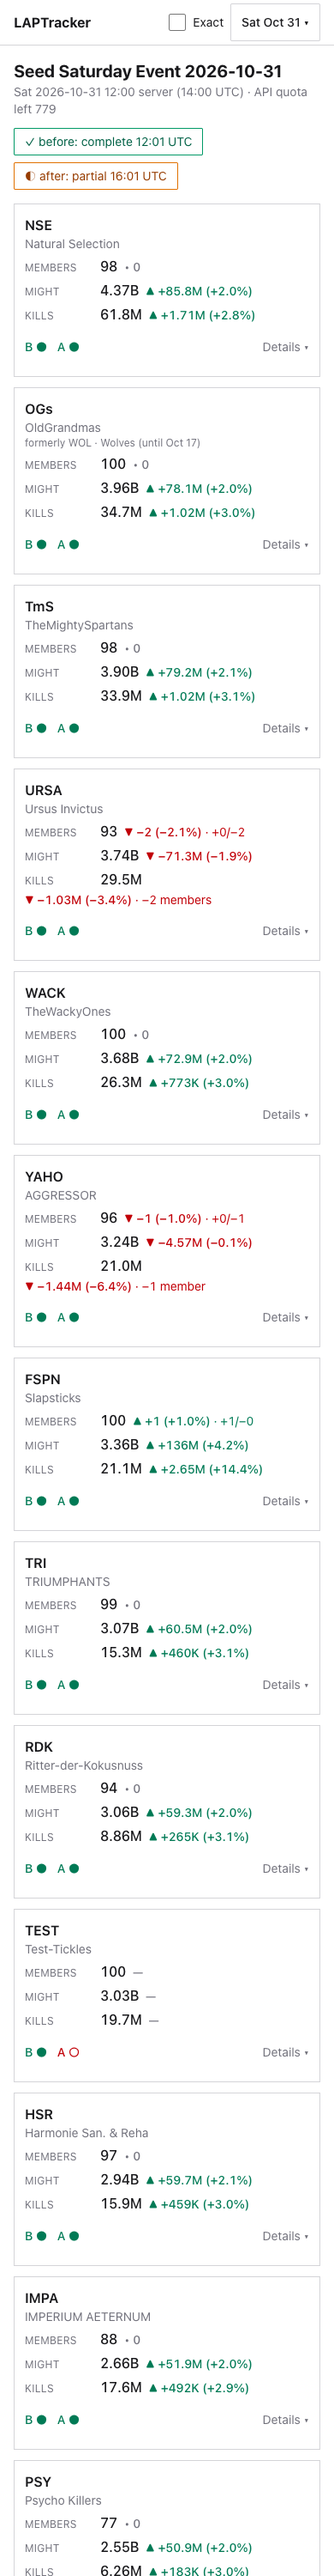
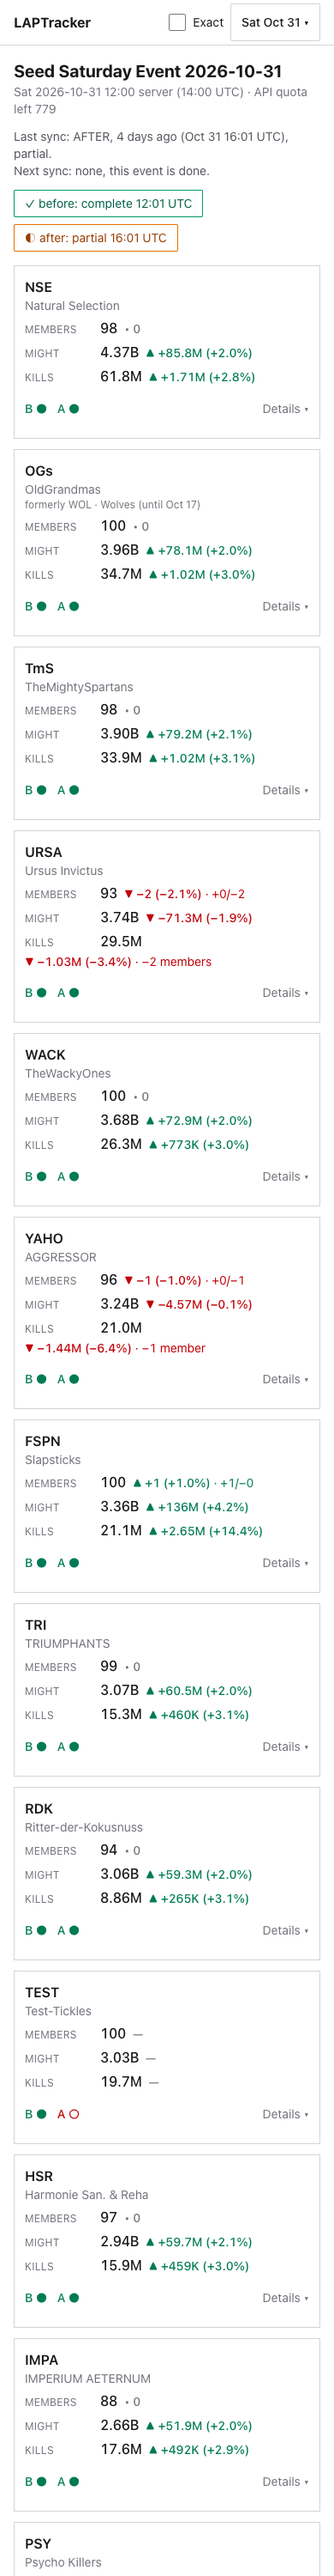
docs: session 6 — retake 1280 px screenshots (wrong page captured)

diff --git a/app/_ui/Status.tsx b/app/_ui/Status.tsx
@@ -1,6 +1,6 @@
 // Snapshot status chips and freshness dots (plan Phase 5). Every state has a symbol and a word:
 // colour is never the only cue.
-import { utcClock, utcStamp } from "./format";
+import { relative, utcClock, utcStamp } from "./format";
 
 export interface PhaseStatus {
   phase: "before" | "after";
@@ -102,5 +102,43 @@ export function FreshnessDetail({
       {line("Before", before)}
       {line("After", after)}
     </ul>
+  );
+}
+
+const label = (p: "before" | "after") => (p === "before" ? "BEFORE" : "AFTER");
+
+/** "Last sync: AFTER, 4 h ago" and "Next sync: none" (or the next due phase), in plain words. */
+export function SyncLines({
+  phases,
+  beforeAt,
+  afterAt,
+  now,
+}: {
+  phases: PhaseStatus[];
+  beforeAt: Date;
+  afterAt: Date;
+  now: Date;
+}) {
+  const running = phases.find((p) => p.status === "running");
+  const done = phases
+    .filter((p) => p.status !== "running")
+    .sort(
+      (a, b) => (b.finishedAt ?? b.startedAt).getTime() - (a.finishedAt ?? a.startedAt).getTime(),
+    );
+  const last = done[0];
+  const missing = (["before", "after"] as const).find((ph) => !phases.some((p) => p.phase === ph));
+  const due = missing === "before" ? beforeAt : afterAt;
+  return (
+    <p className="mb-3 text-sm text-zinc-600 dark:text-zinc-400">
+      {running
+        ? `Syncing now: ${label(running.phase)}.`
+        : last
+          ? `Last sync: ${label(last.phase)}, ${relative(now, last.finishedAt ?? last.startedAt)} (${utcStamp(last.finishedAt ?? last.startedAt)}), ${last.status}.`
+          : "Last sync: none yet."}
+      <br />
+      {missing
+        ? `Next sync: ${label(missing)}, ${due > now ? "due" : "was due"} ${relative(now, due)} (${utcStamp(due)}).`
+        : "Next sync: none, this event is done."}
+    </p>
   );
 }

diff --git a/app/_ui/EventView.tsx b/app/_ui/EventView.tsx
@@ -10,7 +10,7 @@ import { comparisonRows, type AllianceCell, type ComparisonRow } from "./event-r
 import { utcDay, utcStamp } from "./format";
 import { SiteHeader } from "./SiteHeader";
 import { StatTable, type StatRow } from "./StatTable";
-import { FreshDots, FreshnessDetail, StatusChips, type FreshState } from "./Status";
+import { FreshDots, FreshnessDetail, StatusChips, SyncLines, type FreshState } from "./Status";
 
 type Detail = NonNullable<Awaited<ReturnType<typeof getEventDetail>>>;
 type Events = Awaited<ReturnType<typeof listEvents>>;
@@ -111,6 +111,12 @@ export function EventView({
           {describeInstant(detail.eventAtUtc, getEnv())}
           {quota != null && ` · API quota left ${quota}`}
         </p>
+        <SyncLines
+          phases={detail.snapshots}
+          beforeAt={detail.beforeAt}
+          afterAt={detail.afterAt}
+          now={new Date()}
+        />
         <div className="mb-4">
           <StatusChips phases={detail.snapshots} />
         </div>

diff --git a/app/_ui/format.ts b/app/_ui/format.ts
@@ -50,3 +50,16 @@ export const utcDayWithWeekday = (d: Date): string =>
 
 /** "14:00 UTC" */
 export const utcClock = (d: Date): string => `${utcTime.format(d)} UTC`;
+
+/** "in 3 h", "12 min ago", "2 days ago": how far `at` is from `now`. */
+export function relative(now: Date, at: Date): string {
+  const min = Math.round((at.getTime() - now.getTime()) / 60_000);
+  const abs = Math.abs(min);
+  const span =
+    abs < 60
+      ? `${abs} min`
+      : abs < 2880
+        ? `${Math.round(abs / 60)} h`
+        : `${Math.round(abs / 1440)} days`;
+  return min >= 0 ? `in ${span}` : `${span} ago`;
+}

diff --git a/lib/queries/events.ts b/lib/queries/events.ts
@@ -77,6 +77,8 @@ export async function getEventDetail(db: Db, eventId: number) {
       id: events.id,
       name: events.name,
       eventAtUtc: events.eventAtUtc,
+      beforeAt: events.beforeAt,
+      afterAt: events.afterAt,
       isTest: events.isTest,
     })
     .from(events)
